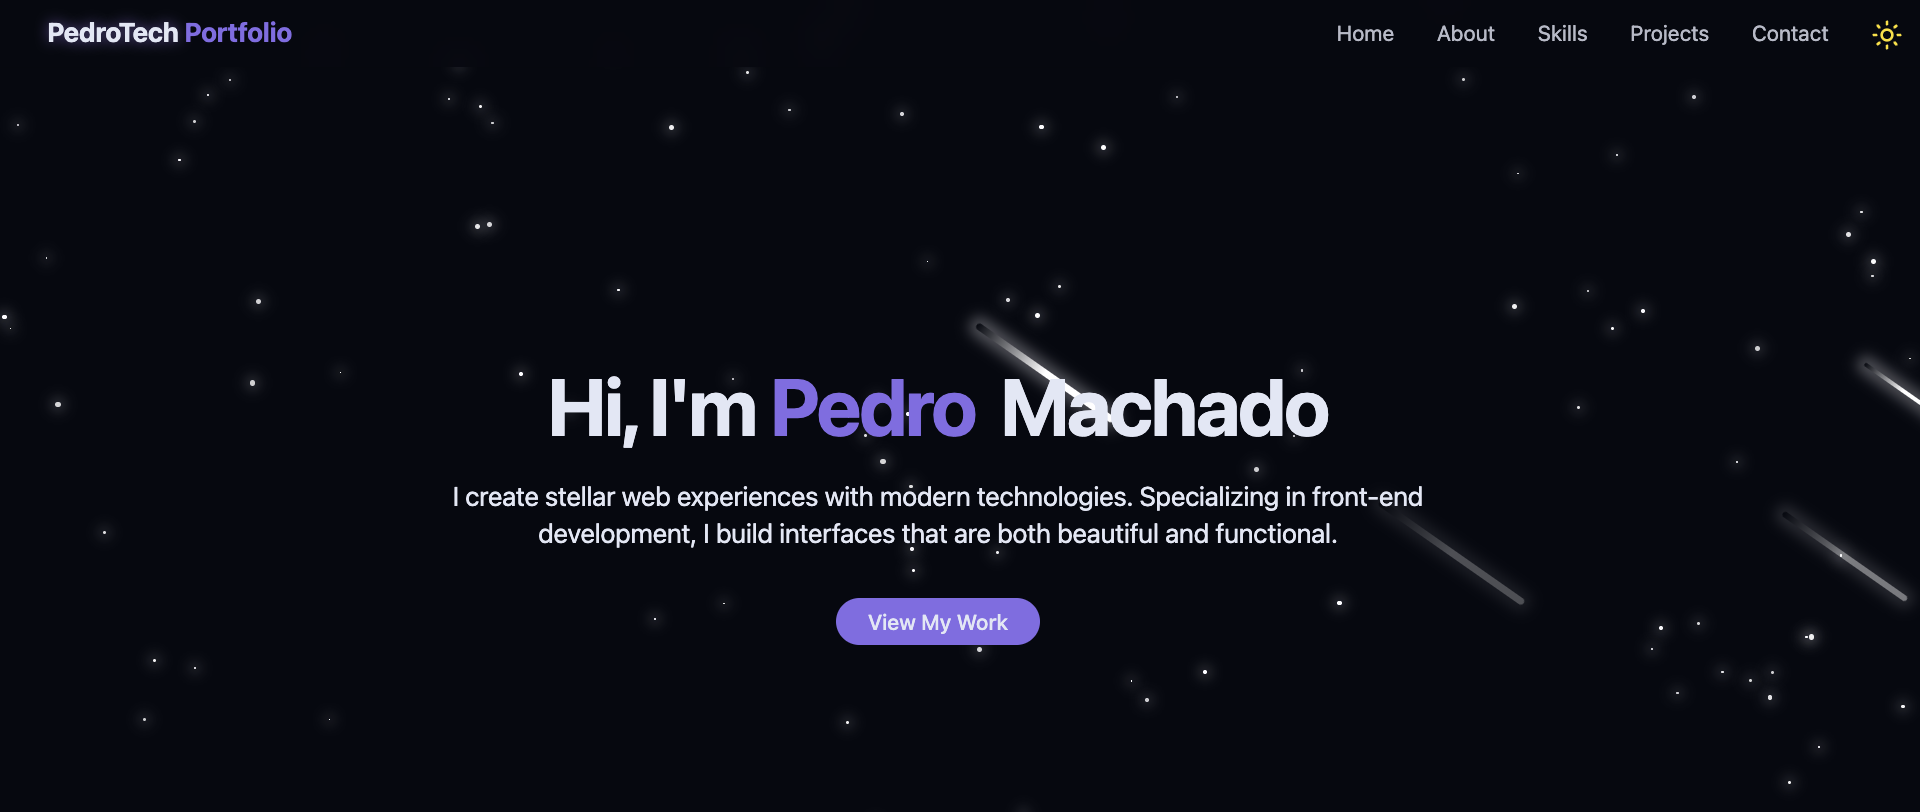
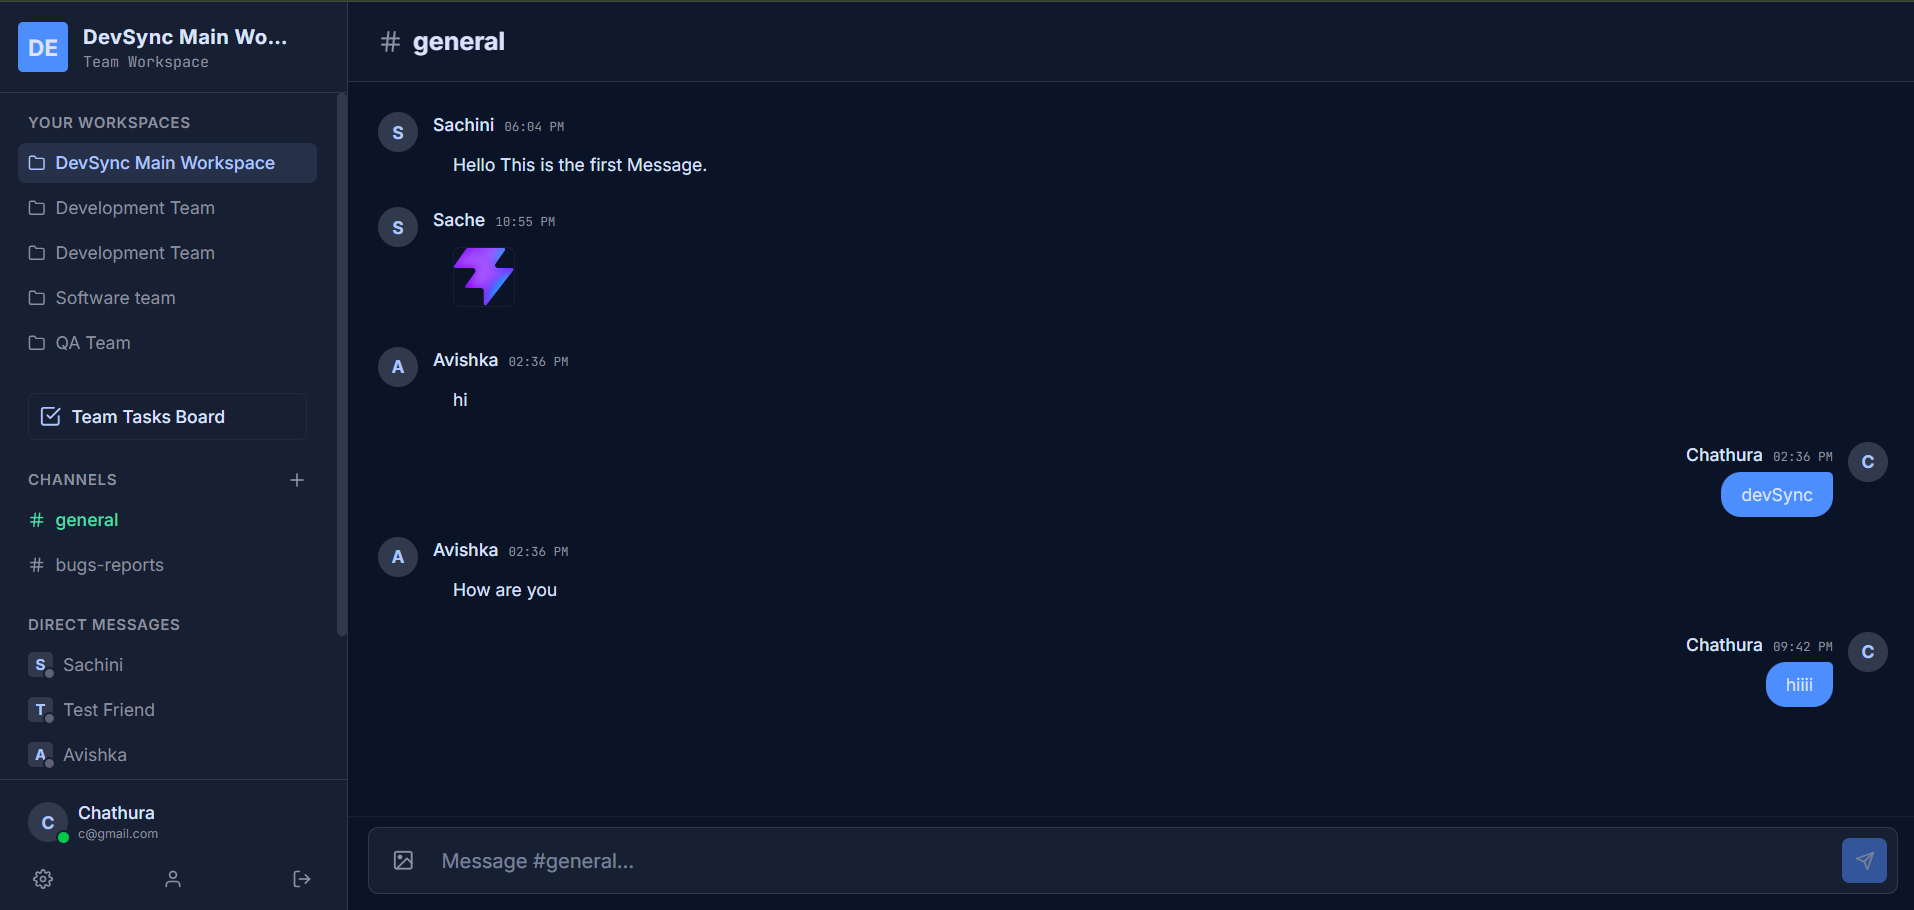
Adding projects

diff --git a/src/sections/Projects.jsx b/src/sections/Projects.jsx
@@ -13,31 +13,22 @@ const projects = [
     github: "https://github.com/ChathuraSamarakoon/E-commerce-project",
   },
   {
-    title: "E-Commerce Platform",
+    title: "FUDU - Food ordering app",
     description:
-      "A full-featured e-commerce solution with inventory management, payment processing, and analytics dashboard.",
+      "Developed a full-stack food ordering platform using React.js and Spring Boot. Implemented secure JWT authentication, RESTful APIs, and dynamic dashboards. Deployed the complete scalable infrastructure on AWS and implemented database on Aiven cloud platform.",
     image: "/projects/project2.png",
-    tags: ["Next.js", "Stripe", "PostgreSQL", "Tailwind"],
-    link: "#",
-    github: "#",
+    tags: ["React", "Spring Boot", "MySQL", "Tailwind", "AWS", "Aiven"],
+    link: "http://fudo-frontend-app-2026.s3-website-ap-southeast-1.amazonaws.com",
+    github: "https://github.com/ChathuraSamarakoon/fudo-backend",
   },
   {
-    title: "AI Writing Assistant",
+    title: "DevSync- Real Time chat app",
     description:
-      "An intelligent writing tool powered by GPT-4, helping users create better content faster.",
+      "DevSync is a comprehensive MERN-stack project management and team communication platform. It features workspace organization, task tracking, and real-time messaging through Channels and Direct Messages powered by Socket.io. The application is successfully deployed on AWS, with the React/Vite frontend hosted on S3 and the Node.js backend on EC2.",
     image: "/projects/project3.png",
-    tags: ["React", "OpenAI", "Python", "FastAPI"],
-    link: "#",
-    github: "#",
-  },
-  {
-    title: "Project Management Tool",
-    description:
-      "A collaborative workspace for teams with real-time updates, task tracking, and integrations.",
-    image: "/projects/project4.png",
-    tags: ["Next.js", "Socket.io", "MongoDB", "Redis"],
-    link: "#",
-    github: "#",
+    tags: ["MongoDB Atlas", "Express", "React", "Node.js","Tailwind", "Socket.io", "AWS","bcrypt", "helmet" ],
+    link: "http://devsync-frontend-chathura.s3-website.eu-north-1.amazonaws.com",
+    github: "https://github.com/ChathuraSamarakoon/DevSync-backend",
   },
 ]
 
